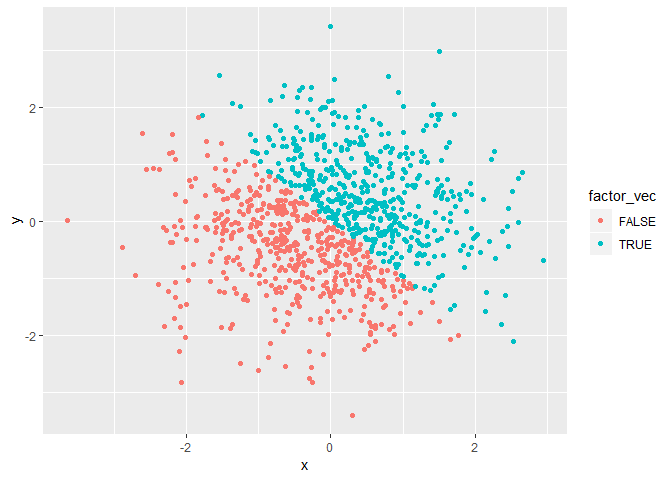
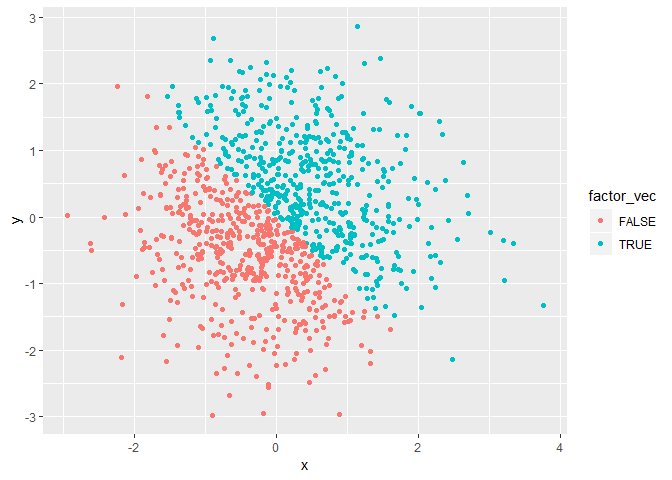
final check

diff --git a/p8105_hw1_smi2112.md b/p8105_hw1_smi2112.md
@@ -10,14 +10,14 @@ Creating the data frame:
 library(tidyverse)
 ```
 
-    ## -- Attaching packages -------------------------------------- tidyverse 1.2.1 --
+    ## -- Attaching packages ---------------------------------------------------------------------------------------------------- tidyverse 1.2.1 --
 
     ## v ggplot2 3.0.0     v purrr   0.2.5
     ## v tibble  1.4.2     v dplyr   0.7.6
     ## v tidyr   0.8.1     v stringr 1.3.1
     ## v readr   1.1.1     v forcats 0.3.0
 
-    ## -- Conflicts ----------------------------------------- tidyverse_conflicts() --
+    ## -- Conflicts ------------------------------------------------------------------------------------------------------- tidyverse_conflicts() --
     ## x dplyr::filter() masks stats::filter()
     ## x dplyr::lag()    masks stats::lag()
 
@@ -36,13 +36,13 @@ Attempting to take the mean of each variable in the data frame:
 mean(question_one_df$random_samp)
 ```
 
-    ## [1] 2.915935
+    ## [1] 2.256764
 
 ``` r
 mean(question_one_df$logical_vec)
 ```
 
-    ## [1] 0.7
+    ## [1] 0.5
 
 ``` r
 mean(question_one_df$char_vec)
@@ -62,7 +62,7 @@ mean(question_one_df$factor_vec)
 
     ## [1] NA
 
-The mean of the random sample is 2.9159352, and the mean of the logical vector is 0.7.
+The mean of the random sample is 2.256764, and the mean of the logical vector is 0.5.
 
 The mean of the random sample works because the vector is made up of numbers generated by the runif() function, and r is able to take the mean of numbers. The mean of the logical vector also works because the logical vector codes TRUE statements as 1 and FALSE statements as 0. The mean of the 1's and 0's is taken.
 
@@ -83,15 +83,21 @@ question_two_df <- tibble(
 )
 ```
 
-The size of the dataset is 1000, 5. The mean of x is -0.010254 and the median of x is 0.0214514. The proportion of cases for which the logical vector is true is 0.503.
+The size of the dataset is 1000, 5. The mean of x is 0.0445512 and the median of x is 0.0266316. The proportion of cases for which the logical vector is true is 0.506.
 
-Creating the first scatterplot with color points using the logical variable:
+Creating the first scatterplot with color points using the logical variable, and exporting to the project directory:
 
 ``` r
 ggplot(question_two_df, aes(x = x, y = y, color = logical_vec)) + geom_point()
 ```
 
 ![](p8105_hw1_smi2112_files/figure-markdown_github/unnamed-chunk-4-1.png)
+
+``` r
+ggsave("hw1_scatterplot.pdf")
+```
+
+    ## Saving 7 x 5 in image
 
 Creating the second scatterplot with color points using the numeric variable:
 
@@ -109,12 +115,6 @@ ggplot(question_two_df, aes(x = x, y = y, color = factor_vec)) + geom_point()
 
 ![](p8105_hw1_smi2112_files/figure-markdown_github/unnamed-chunk-6-1.png)
 
-The color scale in the first scatterplot is binary, which makes sense becuase the logical vector only has two options (TRUE of FALSE). The color scale in the second scatterplot is continuous on a scale from 0 to 1, which makes sense because we are coloring a numeric variable that has a minimum of 0 and a maximum of 1. However, because the values will either be 0 or 1, we only see the extreme ends of the color scale (the color that corresponds with 0 and the color scale that corresponds with 1). The color scale in the third scatterplot is binary again, which makes sense
+Commenting on the color scales of each scatterplot:
 
-Exporting the first scatterplot to th project directory:
-
-``` r
-ggplot(question_two_df, aes(x = x, y = y, color = logical_vec)) + geom_point()
-```
-
-![](p8105_hw1_smi2112_files/figure-markdown_github/unnamed-chunk-7-1.png)
+The color scale in the first scatterplot is binary, which makes sense becuase the logical vector only has two options (TRUE of FALSE). The color scale in the second scatterplot is continuous on a scale from 0 to 1, which makes sense because we are coloring a numeric variable that has a minimum of 0 and a maximum of 1. However, because the values will either be 0 or 1, we only see the extreme ends of the color scale (the color that corresponds with 0 and the color scale that corresponds with 1). The color scale in the third scatterplot is binary again, which makes sense becuase there are only two options again, TRUE or FALSE.
